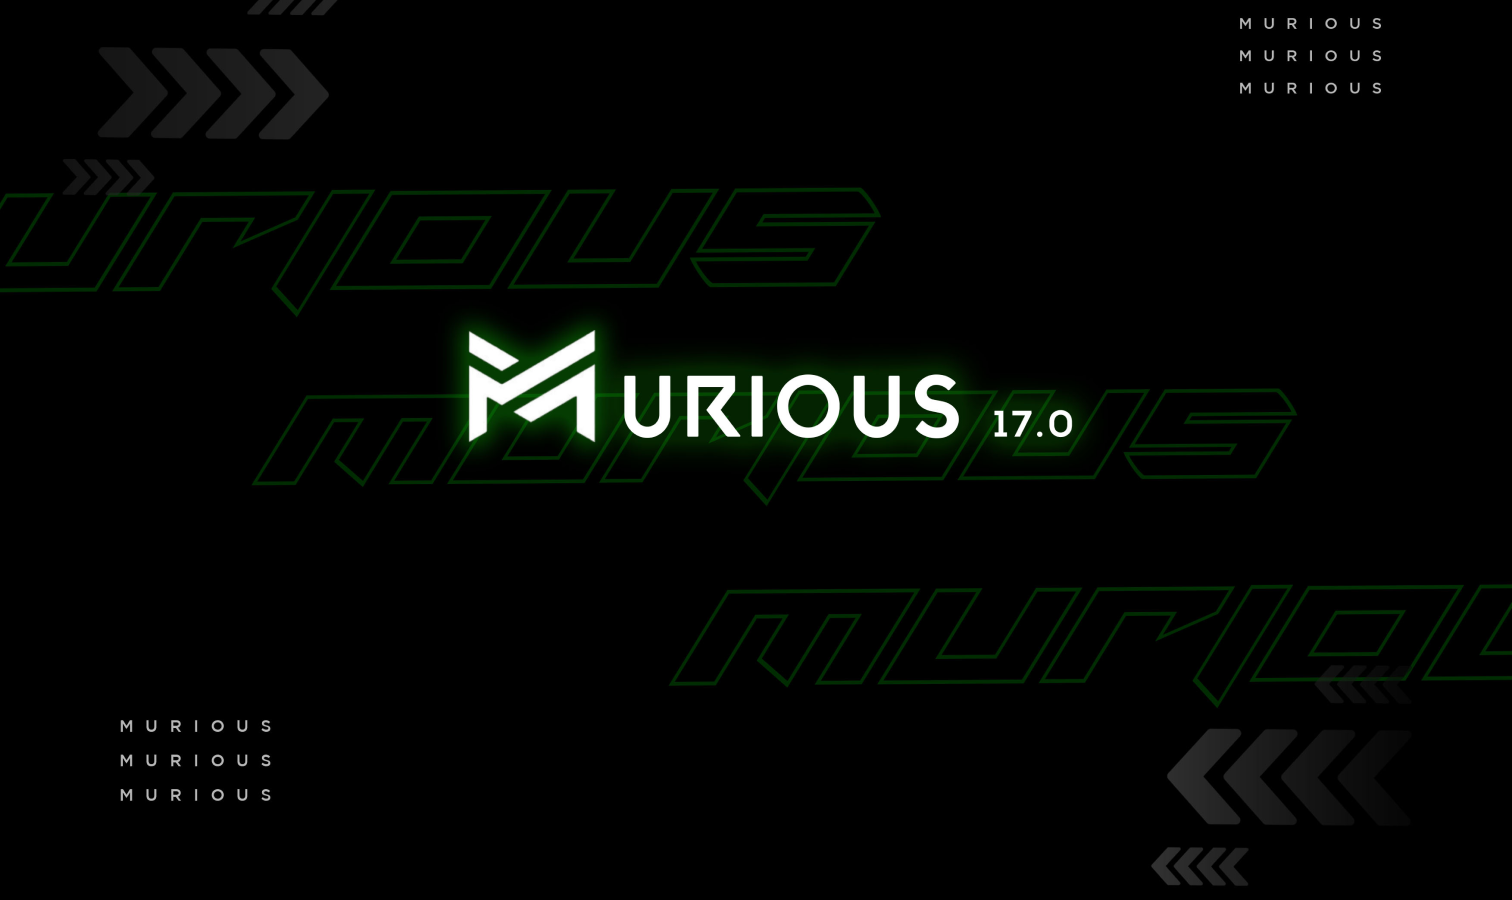
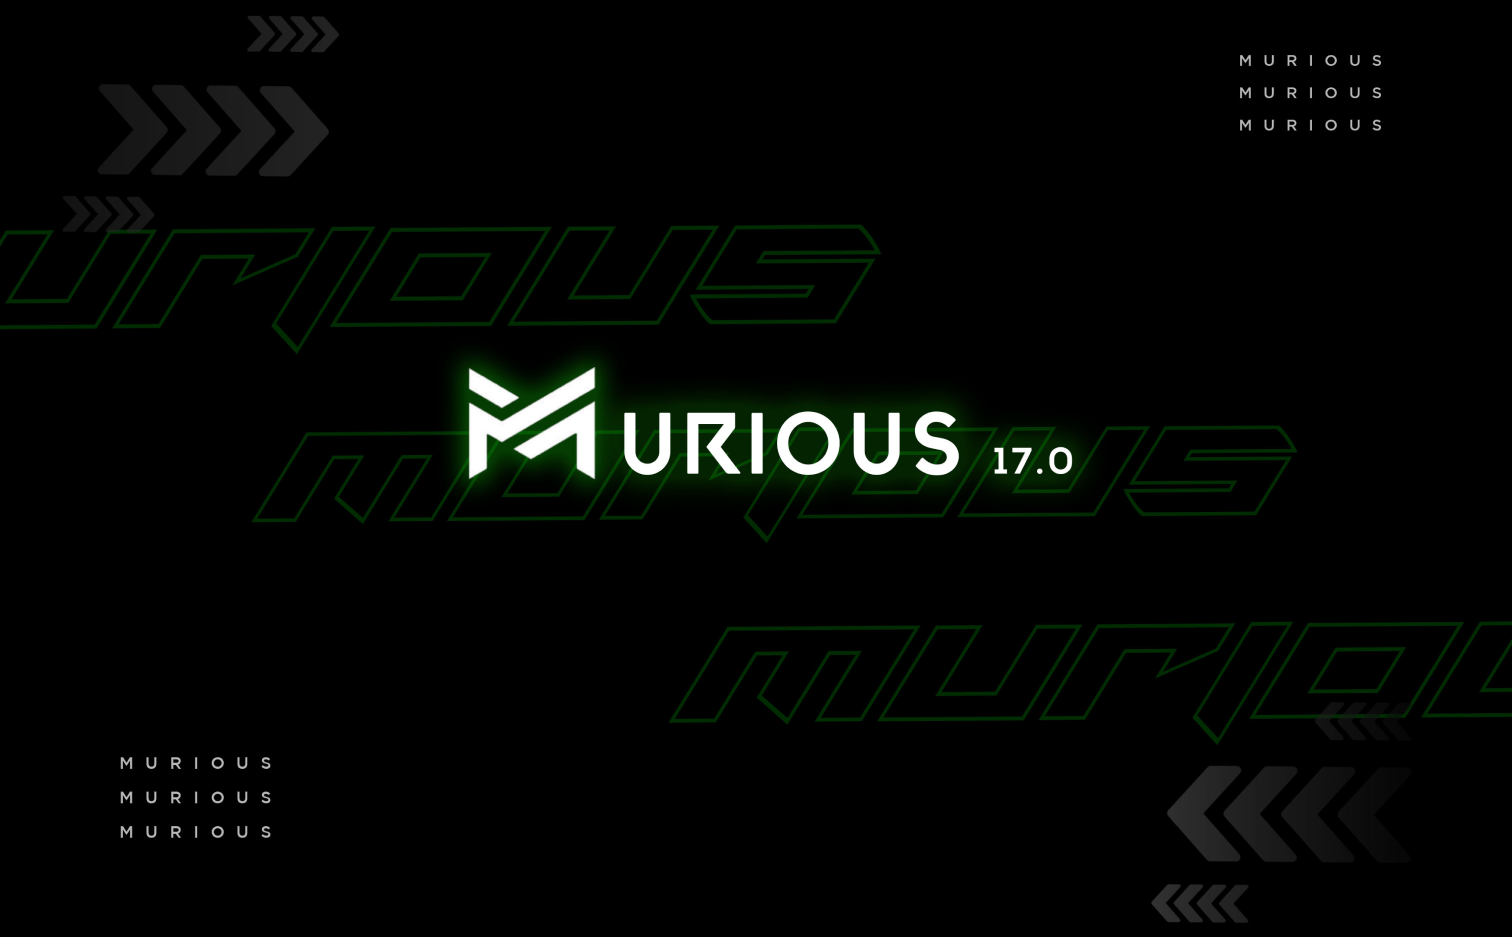
C3

diff --git a/murious/src/Pages/Homepage/Components/Landing/Time.js b/murious/src/Pages/Homepage/Components/Landing/Time.js
@@ -1,0 +1,54 @@
+import React from "react";
+import { useState, useEffect } from "react";
+import "./Time.css"
+
+const Time = () => {
+  const [days, setDays] = useState(0);
+  const [hours, setHours] = useState(0);
+  const [minutes, setMinutes] = useState(0);
+  const [seconds, setSeconds] = useState(0);
+
+  const deadline = "February, 24, 2023";
+
+  const getTime = () => {
+    const time = Date.parse(deadline) - Date.now();
+
+    setDays(Math.floor(time / (1000 * 60 * 60 * 24)));
+    setHours(Math.floor((time / (1000 * 60 * 60)) % 24));
+    setMinutes(Math.floor((time / 1000 / 60) % 60));
+    setSeconds(Math.floor((time / 1000) % 60));
+  };
+
+  useEffect(() => {
+    const interval = setInterval(() => getTime(deadline), 1000);
+
+    return () => clearInterval(interval);
+  }, []);
+
+  return (
+    <div className="timer" role="timer">
+      <div className="col-4">
+        <div className="box">
+          <p id="day">{days < 10 ? "0" + days : days}<span className="text">days</span></p>
+        </div>
+      </div>
+      <div className="col-4">
+        <div className="box">
+          <p id="hour">{hours < 10 ? "0" + hours : hours}<span className="text">hrs</span></p>
+        </div>
+      </div>
+      <div className="col-4">
+        <div className="box">
+          <p id="minute">{minutes < 10 ? "0" + minutes : minutes}<span className="text">min</span></p>
+        </div>
+      </div>
+      <div className="col-4">
+        <div className="box">
+          <p id="second">{seconds < 10 ? "0" + seconds : seconds}<span className="text">sec</span></p>
+        </div>
+      </div>
+    </div>
+  );
+};
+
+export default Time;

diff --git a/murious/src/Pages/Homepage/Components/Landing/Landing.css b/murious/src/Pages/Homepage/Components/Landing/Landing.css
@@ -2,6 +2,29 @@
     background: url(./Assets/MuriousBG.png);
     background-repeat: no-repeat;
     width: 100%;
-    height: 100vh;
+    height: 58rem;
     background-size: cover;
+    display: flex;
+    align-items: center;
+    justify-content: center;
+    flex-direction: column;
+}
+.murious_date{
+    margin-top: 14rem;
+    font-family: 'Poppins';
+    font-style: normal;
+    font-weight: 400;
+    font-size: 38px;
+    color: white;
+}
+.murious_event_button{
+    margin-top: 3rem;
+}
+.event_button_landing{
+    text-decoration: none;
+    font-weight: 400;
+    font-size: 38px;
+    color: white;
+    border: 3px solid #FFFFFF;
+    padding: 0.2rem 2rem;
 }

diff --git a/murious/src/Pages/Homepage/Components/Landing/Landing.js b/murious/src/Pages/Homepage/Components/Landing/Landing.js
@@ -1,10 +1,22 @@
-import React from 'react'
-import './Landing.css'
+import React from "react";
+import { Link } from "react-router-dom";
+import "./Landing.css";
+import Time from "./Time";
 
 export default function Landing() {
   return (
-    <div className='murious_landing'>
-
+    <div>
+      <div className="murious_landing">
+        <div className="murious_date">
+          24<sup>th</sup> - 26<sup>th</sup> February
+        </div>
+        <div className="murious_event_button">
+          <Link to="/" className="event_button_landing">
+            View Events
+          </Link>
+        </div>
+      </div>
+      <Time/>
     </div>
-  )
+  );
 }

diff --git a/murious/src/Pages/Homepage/Components/Landing/Time.css b/murious/src/Pages/Homepage/Components/Landing/Time.css
@@ -1,0 +1,36 @@
+.timer {
+  display: inline-block;
+  padding: 60px 0px;
+  text-align: center;
+  background: linear-gradient(86.5deg, #129106 32.7%, #5ebf4e 95.44%);
+  width: 100%;
+}
+
+.col-4 {
+  width: 25%;
+  float: left;
+}
+
+.box {
+  /* border-right: solid 1px rgba(255, 255, 255, 0.2); */
+  font-weight: 300;
+  padding: 10px;
+}
+
+.col-4:last-child .box {
+  border-right-color: transparent;
+}
+
+.box p {
+  font-size: calc(16px + 2vmin);
+  margin: 0;
+}
+
+#day, #hour, #minute, #second, .text{
+    font-weight: 500;
+    font-size: 64px;
+    color: #FFFFFF;
+}
+.text{
+    margin-left: 1.5rem;
+}
